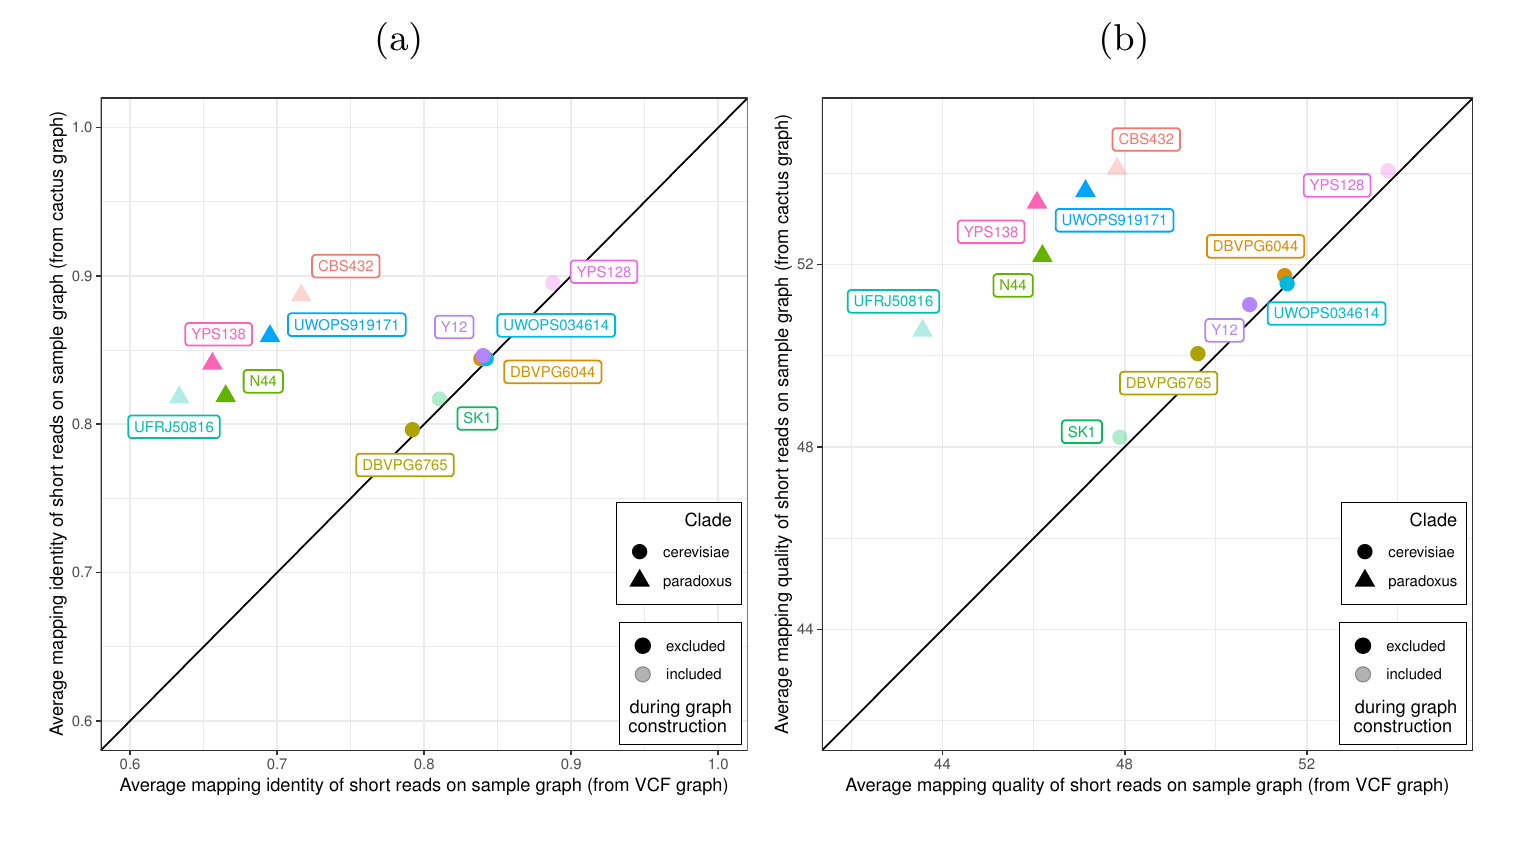
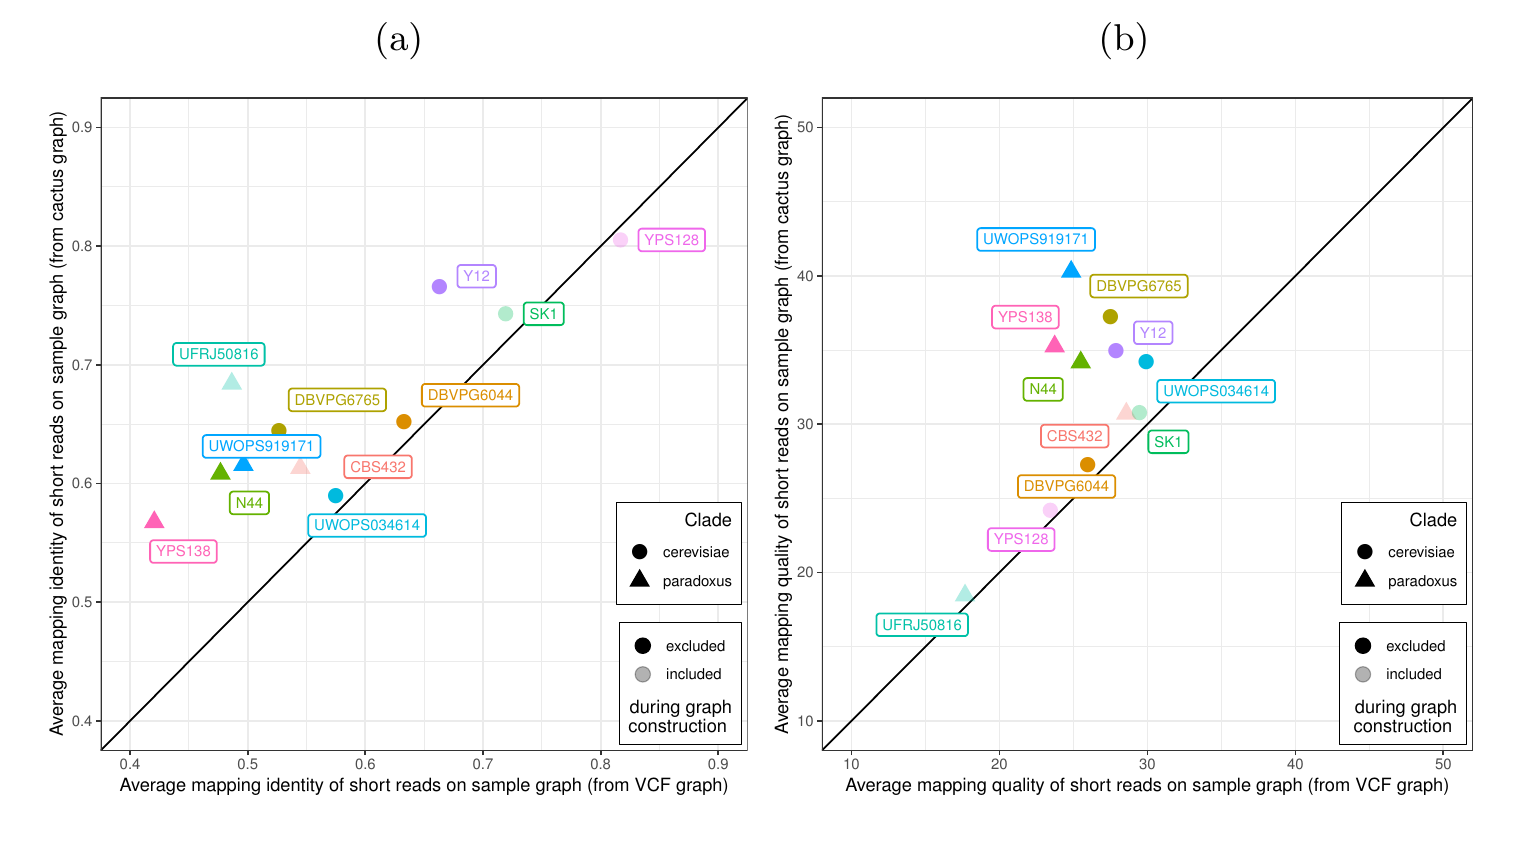
update yeast analysis: - use new evaluation method with SV-only callsets and filtering of reads in non-SV regions - update Methods, Results and Supplement accordingly

diff --git a/content/03.results.md b/content/03.results.md
@@ -135,20 +135,26 @@ Generally, more reads mapped to the *cactus graph* with high identity (Figure {@
 Next, we compared the SV genotyping performance of both graphs.
 We mapped short reads from the 11 non-reference strains to both graphs and called variants for each strain using the vg toolkit's variant calling module (see [Methods](#toil-vg-call)).
 There is no gold standard call set for these samples, so we used an indirect measure of SV calling accuracy.
-We evaluated each call set based on the alignment of reads to a *sample graph* constructed from the call set (see [Methods](#calling-and-genotyping-of-svs)).
+We evaluated each SV call set based on the alignment of reads to a *sample graph* constructed from the call set (see [Methods](#calling-and-genotyping-of-svs)).
 If a given call set is correct, we expect that reads from the same sample will be mapped with high identity and confidence to the corresponding sample graph.
-Therefore, we compared the average percent identity and mapping quality of the short reads on each sample graph (Figures {@fig:4}a and b).
-Similar to the mappability results, the *cactus graph* clearly outperformed the *VCF graph* for strains in the *S. paradoxus* clade and performed slightly better for strains in the *S. cerevisiae* clade.
-While the higher percent identity shows that the *cactus graph* represents the reads better (Figures {@fig:4}a), the higher mapping quality confirms that this did not come at the cost of added ambiguity or a more complex graph (Figures {@fig:4}b).
-Our results did not show a substantial difference between strains included in the graph and those that were excluded.
+To specifically quantify mappability in SV regions we excluded reads that produced identical mapping quality and percent identiy on both sample graphs and an empty sample graph containing the linear reference only (see [Methods](#calling-and-genotyping-of-svs)).
+Then, we compared the average percent identity and mapping quality of the remaining short reads on each sample graph (Figures {@fig:4}a and b).
+For 10 of the 11 strains, we observed higher average percent identity of the short reads on the *cactus sample graph* compared to the *VCF sample graph* (mean improvement in percent identity = 8.5%).
+Only for the YPS128 strain, reads on the *VCF sample graph* reached a slightly higher percent identity.
+Generally, the improvement in percent identity between both graphs was larger for strains in the *S. paradoxus* clade (between 7% and 20%) than for strains in the *S. cerevisiae* clade (between 1% and 12%).
+We also observed generally lower percent identity for strains in the *S. paradoxus* clade on both sample graphs.
+While the higher percent identity indicated that the *cactus graph* represents the reads better (Figures {@fig:4}a), the higher mapping quality confirmed that this did not come at the cost of added ambiguity or a more complex graph (Figures {@fig:4}b).
+For all strains, we observed higher average mapping quality of the short reads on the *cactus sample graph* compared to the *VCF sample graph* (mean improvement in mapping quality = 5.7).
+Our results did not reveal a substantial difference between strains included in the graph and those that were excluded.
 This suggests that two strains from each clade as well as the reference strain are sufficient to capture most of the genetic variation among all the strains.
 For a direct comparison, see Figure {@fig:panel6} which shows results of the same experiment on graphs generated from all 12 strains.
 
 ![**SV genotyping comparison.**
 Short reads from all 11 non-reference yeast strains were used to genotype SVs contained in both graphs. 
 Subsequently, sample graphs were generated from the resulting SV callsets. 
-The short reads were aligned to the sample graphs and the quality of the alignments was used to ascertain genotyping performance.
-More accurate genotypes should result in reference graphs that have mappings with high identity and confidence for a greater proportion of the reads.
+The short reads were aligned to the sample graphs and reads with identical mapping quality and percent identity across both sample graphs and an additional empty sample graph were removed from the analysis.
+Then, the quality of the remaining alignments was used to ascertain SV genotyping performance.
+More accurate genotypes should result in sample graphs that have mappings with high identity and confidence for a greater proportion of the reads.
 a) Average mapping identity of short reads aligned to the sample graphs derived from *cactus graph* (y-axis) and *VCF graph* (x-axis).
 b) Average mapping quality of short reads aligned to the sample graphs derived from *cactus graph* (y-axis) and *VCF graph* (x-axis).
 Colors and shapes represent the 11 non-reference strains and two clades, respectively. 

diff --git a/content/05.methods.md b/content/05.methods.md
@@ -211,7 +211,7 @@ This method requires one assembly to serve as a reference genome.
 The other assemblies must be converted to variant calls relative to this reference.
 The PacBio assembly of the S.c. S288C strain was chosen as the reference genome because this strain was used for the S. cerevisiae genome reference assembly.
 To obtain variants for the other assemblies, we combined three methods for SV detection from genome assemblies: Assemblytics [@doi:10.1093/bioinformatics/btw369] (commit df5361f), AsmVar (commit 5abd91a) [@doi:10.1186/s13742-015-0103-4] and paftools (version 2.14-r883) [@doi:10.1093/bioinformatics/bty191].
-We constructed a union set of variants detected by the three methods (using bedtools [@doi:10.1093/bioinformatics/btq033]), and combined variants with a reciprocal overlap of at least 50% to avoid duplication in the union set.
+We constructed a union set of SVs detected by the three methods (using bedtools [@doi:10.1093/bioinformatics/btq033]), and combined variants with a reciprocal overlap of at least 50% to avoid duplication in the union set.
 We merged these union sets of variants for each of the four selected (and non-reference) strains, and we then applied another deduplication step to combine variants with a reciprocal overlap of at least 90%.
 We then used `vg construct` to build the *VCF graph* with the total set of variants and the linear reference genome.
 
@@ -227,6 +227,10 @@ Subsequently, we converted the HAL format output file to a variation graph with 
 Prior to variant calling, we mapped the Illumina short reads of all 12 yeast strains to both graphs using `vg map`.
 We measured the fractions of reads mapped with specific properties using `vg view` and the JSON processor `jq`.
 Then, we applied `toil-vg call` (commit be8b6da) to call variants, obtaining a separate variant call set for each of the strains on both graphs.
-To evaluate the callsets, we generated a sample graph (i.e. a graph representation of the callset) for each callset using `vg construct` and `vg mod` on the reference assembly *S.c. S288C* and the callset.
+From the call sets, we removed variants smaller than 50 bp and variants with missing or homozygous reference genotypes.
+To evaluate the filtered call sets, we generated a sample graph (i.e. a graph representation of the call set) for each call set using `vg construct` and `vg mod` on the reference assembly *S.c. S288C* and the call set.
 Subsequently, we mapped short reads from the respective strains to each sample graph using `vg map`.
-We analyzed the resulting alignments with `vg view` and `jq`.
+We mapped the short reads also to an empty sample graph that was generated using `vg construct` as a graph representation of the linear reference genome.
+In an effort to restrict our analysis to SV regions, we removed reads that mapped equally well (i.e. with identical mapping quality and percent identity) to all three graphs (the two sample graphs and the empty sample graph) from the analysis.
+These filtered out reads most likely stem from portions of the strains' genomes that are identical to the reference strain *S.c. S288C*.
+We analyzed the remaining alignments of reads from SV regions with `vg view` and `jq`.

diff --git a/content/06.suppmaterial.md b/content/06.suppmaterial.md
@@ -167,7 +167,11 @@ Colors and shapes represent the 12 strains and two clades, respectively.
 ](images/panel5.png){#fig:panel5 tag="S13"}
 
 ![**SV genotyping comparison on graphs of all 12 strains.**
-Short reads from all 11 non-reference yeast strains were used to genotype SVs contained in both graphs. Subsequently, sample graphs were generated from the resulting SV callsets. The short reads were again aligned to the sample graphs and the quality of the alignments was used to ascertain genotyping performance.
+Short reads from all 11 non-reference yeast strains were used to genotype SVs contained in both graphs. 
+Subsequently, sample graphs were generated from the resulting SV callsets. 
+The short reads were aligned to the sample graphs and reads with identical mapping quality and percent identity across both sample graphs and an additional empty sample graph were removed from the analysis.
+Then, the quality of the remaining alignments was used to ascertain SV genotyping performance.
+More accurate genotypes should result in sample graphs that have mappings with high identity and confidence for a greater proportion of the reads.
 a) Average mapping quality of short reads aligned to the sample graphs derived from *cactus graph* (y-axis) and *VCF graph* (x-axis).
 b) Average mapping identity of short reads aligned to the sample graphs derived from *cactus graph* (y-axis) and *VCF graph* (x-axis). 
 Colors and shapes represent the 11 non-reference strains and two clades, respectively.
